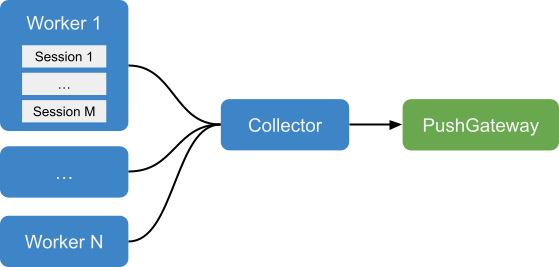
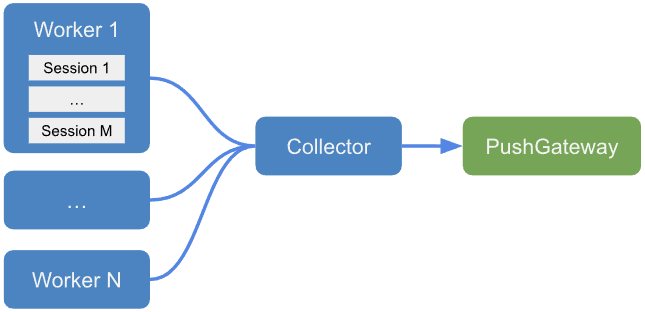
Update docs.

diff --git a/README.md b/README.md
@@ -38,7 +38,7 @@ yarn start --help
 ## Command line usage
 
 The command line arguments can be explicitly provided using the lower snake case format (e.g. `--run-duration=` or setting the corresponding environment variable in upper snake case format (`RUN_DURATION=`). The command line params have precedence over the corresponding environment variables. Alternatively, it is possible to load the configuration variables saved in lower camel case into a local JSON/JSON5, YAML or TOML file; the file can also be stored remotely and loaded using its public HTTP URL.   
-Example running a simple scenario with Mediasoup demo ([https://github.com/vpalmisano/webrtcperf/blob/devel/examples/scenarios/mediasoup.json](https://github.com/vpalmisano/webrtcperf/blob/devel/examples/scenarios/mediasoup.json)):
+Example running a simple scenario with [Mediasoup demo](https://github.com/vpalmisano/webrtcperf/blob/devel/examples/scenarios/mediasoup.json):
 
 ```bash
 webrtcperf https://raw.githubusercontent.com/vpalmisano/webrtcperf/refs/heads/devel/examples/scenarios/mediasoup.json
